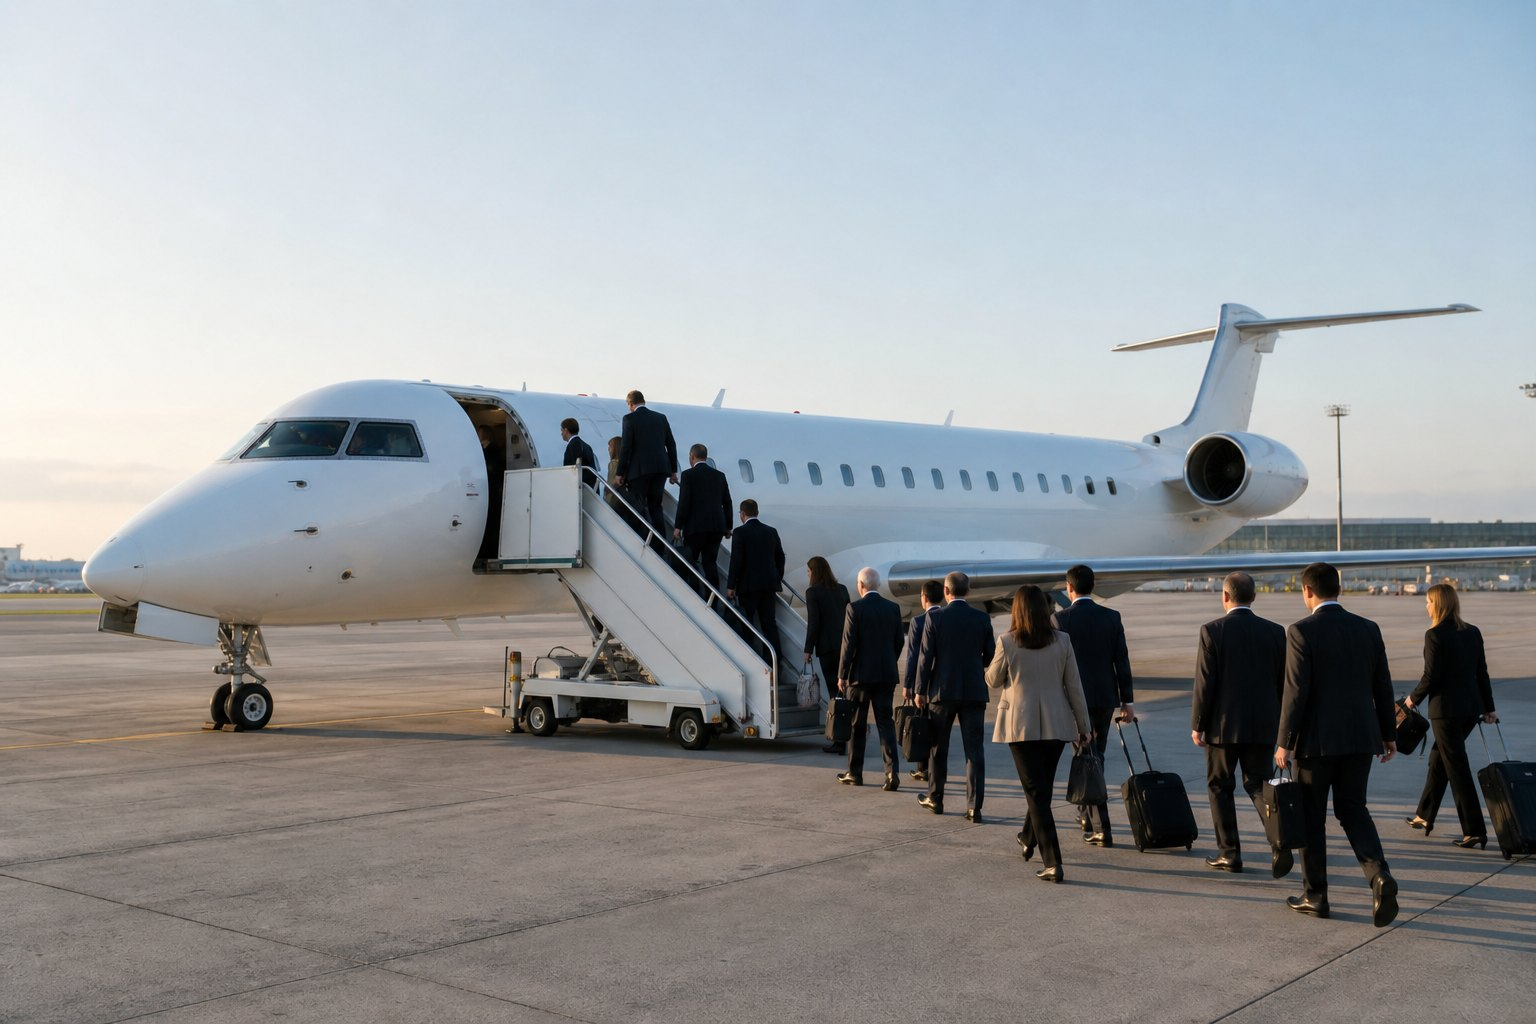
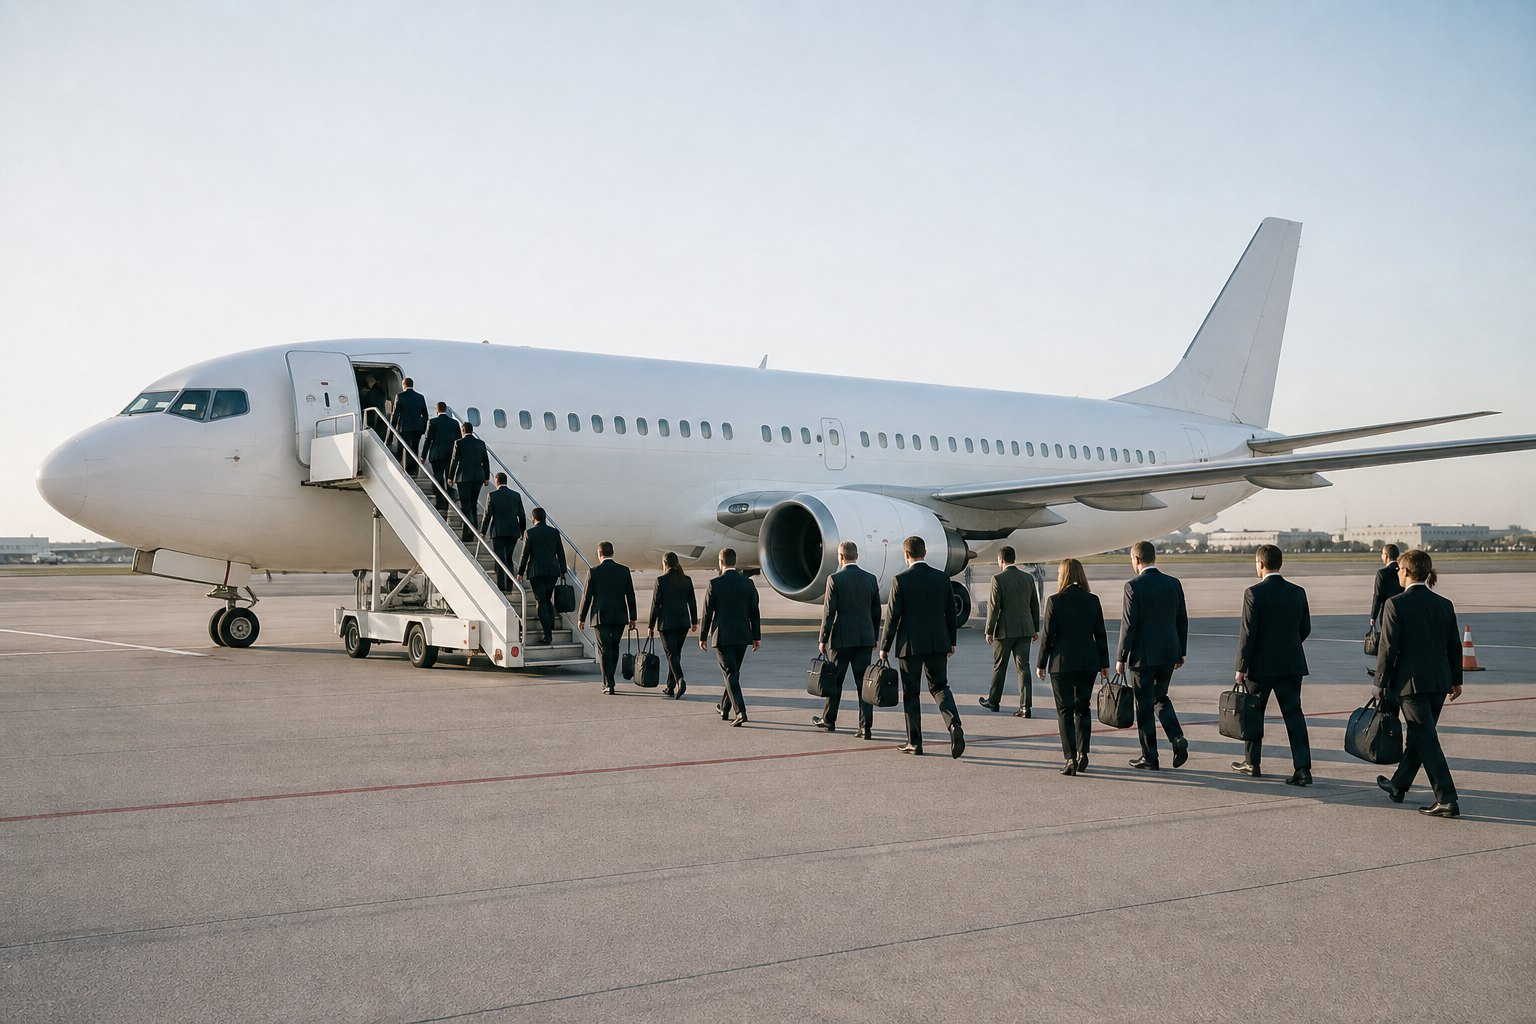
Match corporate photos to airliner scale and drop volume claims.
Replace the undersized business-jet scenes, remove the 20+ / 120+ figures, and note completion certificates on request.

diff --git a/corporate/index.html b/corporate/index.html
@@ -436,7 +436,7 @@
                     <p class="route-note">Чтобы все группы прибыли к началу общей программы.</p>
                 </div>
                 <div class="feature__visual">
-                    <img src="images/audience-corporate.jpg" loading="lazy" decoding="async" alt="Корпоративная делегация у бизнес-терминала">
+                    <img src="images/audience-corporate.jpg" loading="lazy" decoding="async" alt="Корпоративная группа у узкофюзеляжного чартерного лайнера">
                 </div>
             </div>
         </div>
@@ -563,7 +563,7 @@
             <div class="cases">
                 <article class="case animate-on-scroll">
                     <div class="case__visual">
-                        <img src="images/case-corporate.jpg" loading="lazy" decoding="async" alt="Корпоративная делегация поднимается по трапу регионального чартерного самолёта">
+                        <img src="images/case-corporate.jpg" loading="lazy" decoding="async" alt="Корпоративная делегация поднимается по трапу узкофюзеляжного чартерного самолёта">
                         <div class="case__visual-overlay">
                             <div class="case__tag">Кейс 01</div>
                             <h3>Корпорация</h3>
@@ -718,7 +718,7 @@
                 <h2 class="section-title">За каждым рейсом —<br>команда FlightAero.</h2>
             </div>
             <div class="proof__copy animate-on-scroll">
-                <p>Одна команда ведёт программу от первой проверки исполнимости до завершения последнего сегмента перевозки. Самолёт, расписание, аэропорты и изменения по рейсу не расходятся по разным контактам.</p>
+                <p>Одна команда ведёт программу от первой проверки исполнимости до завершения последнего сегмента перевозки. Самолёт, расписание, аэропорты и изменения по рейсу не расходятся по разным контактам. По запросу готовим акты выполненных работ.</p>
             </div>
             <div class="markers animate-on-scroll">
                 <div class="marker">
@@ -726,16 +726,16 @@
                     <div class="marker__label">в бизнес-авиации</div>
                 </div>
                 <div class="marker">
-                    <div class="marker__val">20+</div>
-                    <div class="marker__label">рейсов ежемесячно</div>
-                </div>
-                <div class="marker">
-                    <div class="marker__val">120+</div>
-                    <div class="marker__label">часов в небе ежемесячно</div>
-                </div>
-                <div class="marker">
                     <div class="marker__val">24/7</div>
                     <div class="marker__label">работа команды</div>
+                </div>
+                <div class="marker">
+                    <div class="marker__val">Акты</div>
+                    <div class="marker__label">выполненных работ по запросу</div>
+                </div>
+                <div class="marker">
+                    <div class="marker__val">Одна команда</div>
+                    <div class="marker__label">на всю программу</div>
                 </div>
             </div>
         </div>

diff --git a/corporate/en.html b/corporate/en.html
@@ -436,7 +436,7 @@
                     <p class="route-note">So every group arrives in time for the start of the same programme.</p>
                 </div>
                 <div class="feature__visual">
-                    <img src="images/audience-corporate.jpg" loading="lazy" decoding="async" alt="Corporate delegation at a business aviation terminal">
+                    <img src="images/audience-corporate.jpg" loading="lazy" decoding="async" alt="Corporate group at a narrow-body charter airliner">
                 </div>
             </div>
         </div>
@@ -563,7 +563,7 @@
             <div class="cases">
                 <article class="case animate-on-scroll">
                     <div class="case__visual">
-                        <img src="images/case-corporate.jpg" loading="lazy" decoding="async" alt="Corporate delegation boarding a regional charter aircraft by the airstairs">
+                        <img src="images/case-corporate.jpg" loading="lazy" decoding="async" alt="Corporate delegation boarding a narrow-body charter aircraft by the airstairs">
                         <div class="case__visual-overlay">
                             <div class="case__tag">Case 01</div>
                             <h3>Corporation</h3>
@@ -718,7 +718,7 @@
                 <h2 class="section-title">A FlightAero team<br>behind every flight.</h2>
             </div>
             <div class="proof__copy animate-on-scroll">
-                <p>One team runs the programme from the first feasibility check through to completion of the last sector. Aircraft, timetable, airports and changes to the flight do not split across different contacts.</p>
+                <p>One team runs the programme from the first feasibility check through to completion of the last sector. Aircraft, timetable, airports and changes to the flight do not split across different contacts. Completion certificates are prepared on request.</p>
             </div>
             <div class="markers animate-on-scroll">
                 <div class="marker">
@@ -726,16 +726,16 @@
                     <div class="marker__label">in business aviation</div>
                 </div>
                 <div class="marker">
-                    <div class="marker__val">20+</div>
-                    <div class="marker__label">flights a month</div>
-                </div>
-                <div class="marker">
-                    <div class="marker__val">120+</div>
-                    <div class="marker__label">hours in the air each month</div>
-                </div>
-                <div class="marker">
                     <div class="marker__val">24/7</div>
                     <div class="marker__label">team coverage</div>
+                </div>
+                <div class="marker">
+                    <div class="marker__val">Certificates</div>
+                    <div class="marker__label">issued on request</div>
+                </div>
+                <div class="marker">
+                    <div class="marker__val">One team</div>
+                    <div class="marker__label">for the whole programme</div>
                 </div>
             </div>
         </div>
